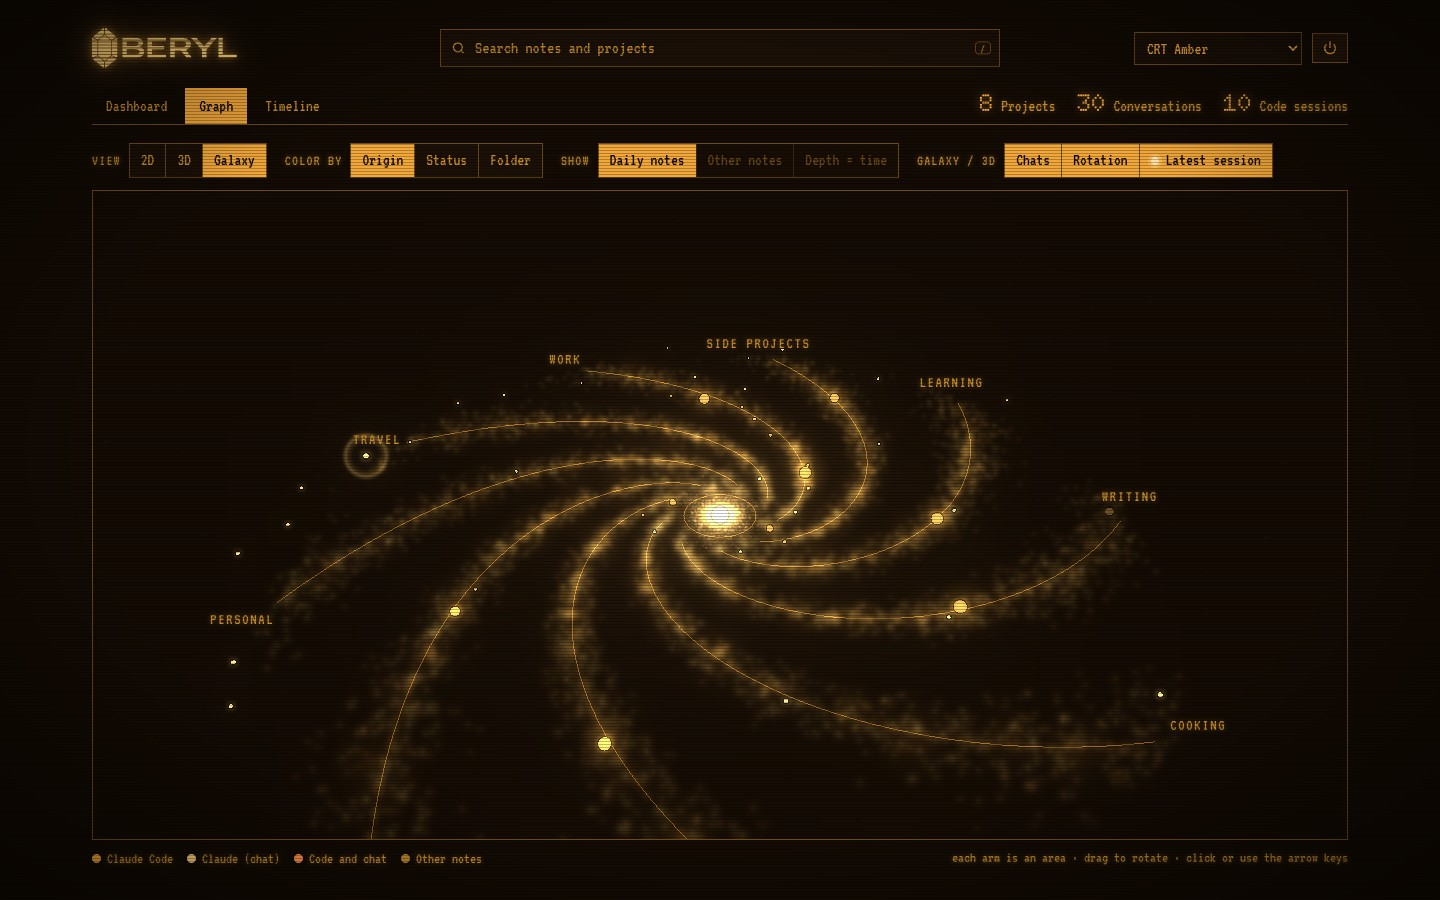
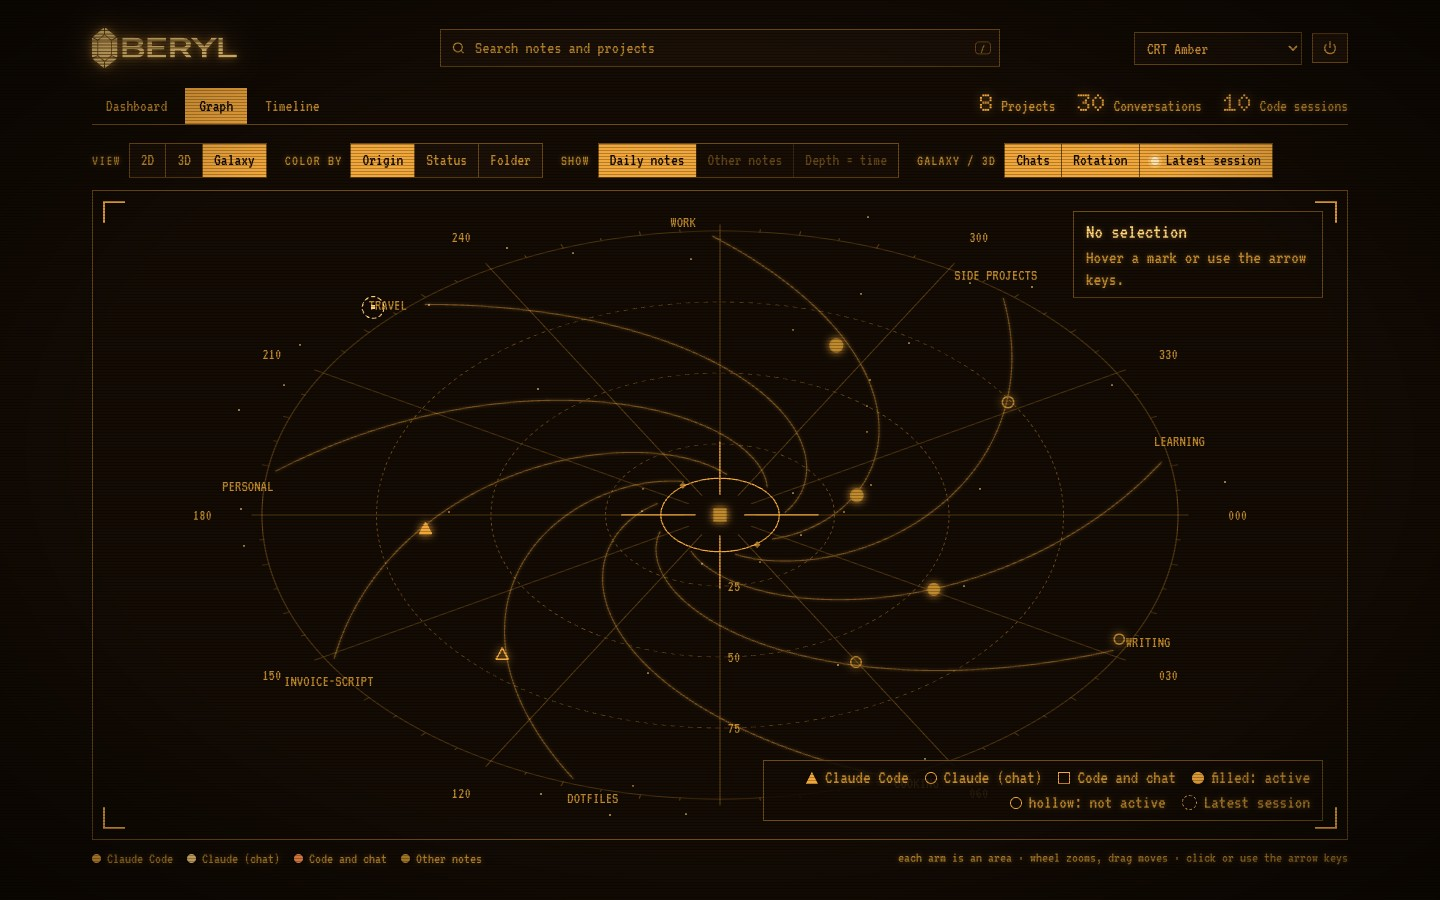
README: Beryl on a phone; new Galaxy screenshots; CRT legend as a panel

diff --git a/web/style.css b/web/style.css
@@ -500,7 +500,7 @@ button.tl-row:hover{background:var(--surface-2)}
 .gcrt .gr p{margin:0;color:var(--muted)}
 .gcrt .gr div{display:flex;justify-content:space-between;gap:12px;color:var(--muted)}
 .gcrt .gr div b{font-weight:400;color:var(--fg);text-align:right}
-.gcrt .gl{position:absolute;right:24px;bottom:18px;display:flex;flex-wrap:wrap;gap:3px 16px;justify-content:flex-end;color:var(--muted);max-width:min(560px,calc(100% - 200px))}
+.gcrt .gl{position:absolute;right:24px;bottom:18px;display:flex;flex-wrap:wrap;gap:3px 16px;justify-content:flex-end;color:var(--muted);max-width:min(560px,calc(100% - 200px));border:1px solid var(--line);background:color-mix(in srgb,var(--bg) 88%,transparent);padding:6px 12px}
 .gcrt .gl span{display:inline-flex;gap:7px;align-items:center;white-space:nowrap}
 .gcrt .gg{display:inline-block;width:12px;height:12px;flex:none;border:1.5px solid var(--fg)}
 .gcrt .gg.circ{border-radius:50%}.gcrt .gg.tri{border:0;background:var(--fg);clip-path:polygon(50% 0,100% 100%,0 100%)}

diff --git a/README.pt-BR.md b/README.pt-BR.md
@@ -123,6 +123,8 @@ python3 beryl.py build -o out.html  # um HTML único, somente leitura
 
 As configurações vêm então de um `beryl.json` ao lado do `beryl.py` (veja `beryl.example.json`) ou do caminho em `BERYL_CONFIG`. No macOS, `scripts/make-app.sh` cria o `~/Applications/Beryl.app`, com o ícone do Beryl, para o Dock.
 
+O Beryl roda no computador, junto dos seus arquivos: não dá para instalá-lo no celular, e o servidor recusa conexões de outros aparelhos de propósito. No celular você pode abrir o arquivo gerado por `build` (mande para você mesmo, por exemplo por AirDrop): é uma foto do momento em que foi gerado e não se atualiza.
+
 ## Suas configurações
 
 O Beryl separa duas coisas:

diff --git a/README.md b/README.md
@@ -124,6 +124,8 @@ python3 beryl.py build -o out.html  # a single read-only HTML file
 
 Settings then come from a `beryl.json` next to `beryl.py` (see `beryl.example.json`) or from the path in `BERYL_CONFIG`. On macOS, `scripts/make-app.sh` creates `~/Applications/Beryl.app`, with the Beryl icon, for the Dock.
 
+Beryl runs on the computer, next to your files: it can't be installed on a phone, and the server refuses connections from other devices on purpose. On a phone you can open the file from `build` (send it to yourself, for example by AirDrop): it is a snapshot of the moment it was built and doesn't update.
+
 ## Your own settings
 
 Beryl keeps two things apart:

diff --git a/CHANGELOG.md b/CHANGELOG.md
@@ -2,6 +2,8 @@
 
 ## Unreleased
 
+- CRT Galaxy: the legend is now a panel, like the readout, so it stays readable over the grid.
+
 ## 0.12.1 (2026-10-08)
 
 - A page that doesn't exist now shows Beryl's own 404 page, in the theme chosen in the dashboard: a terminal ("SIGNAL LOST") for the CRT themes and a quiet lost-in-the-galaxy card for the others, in the dashboard's language.
